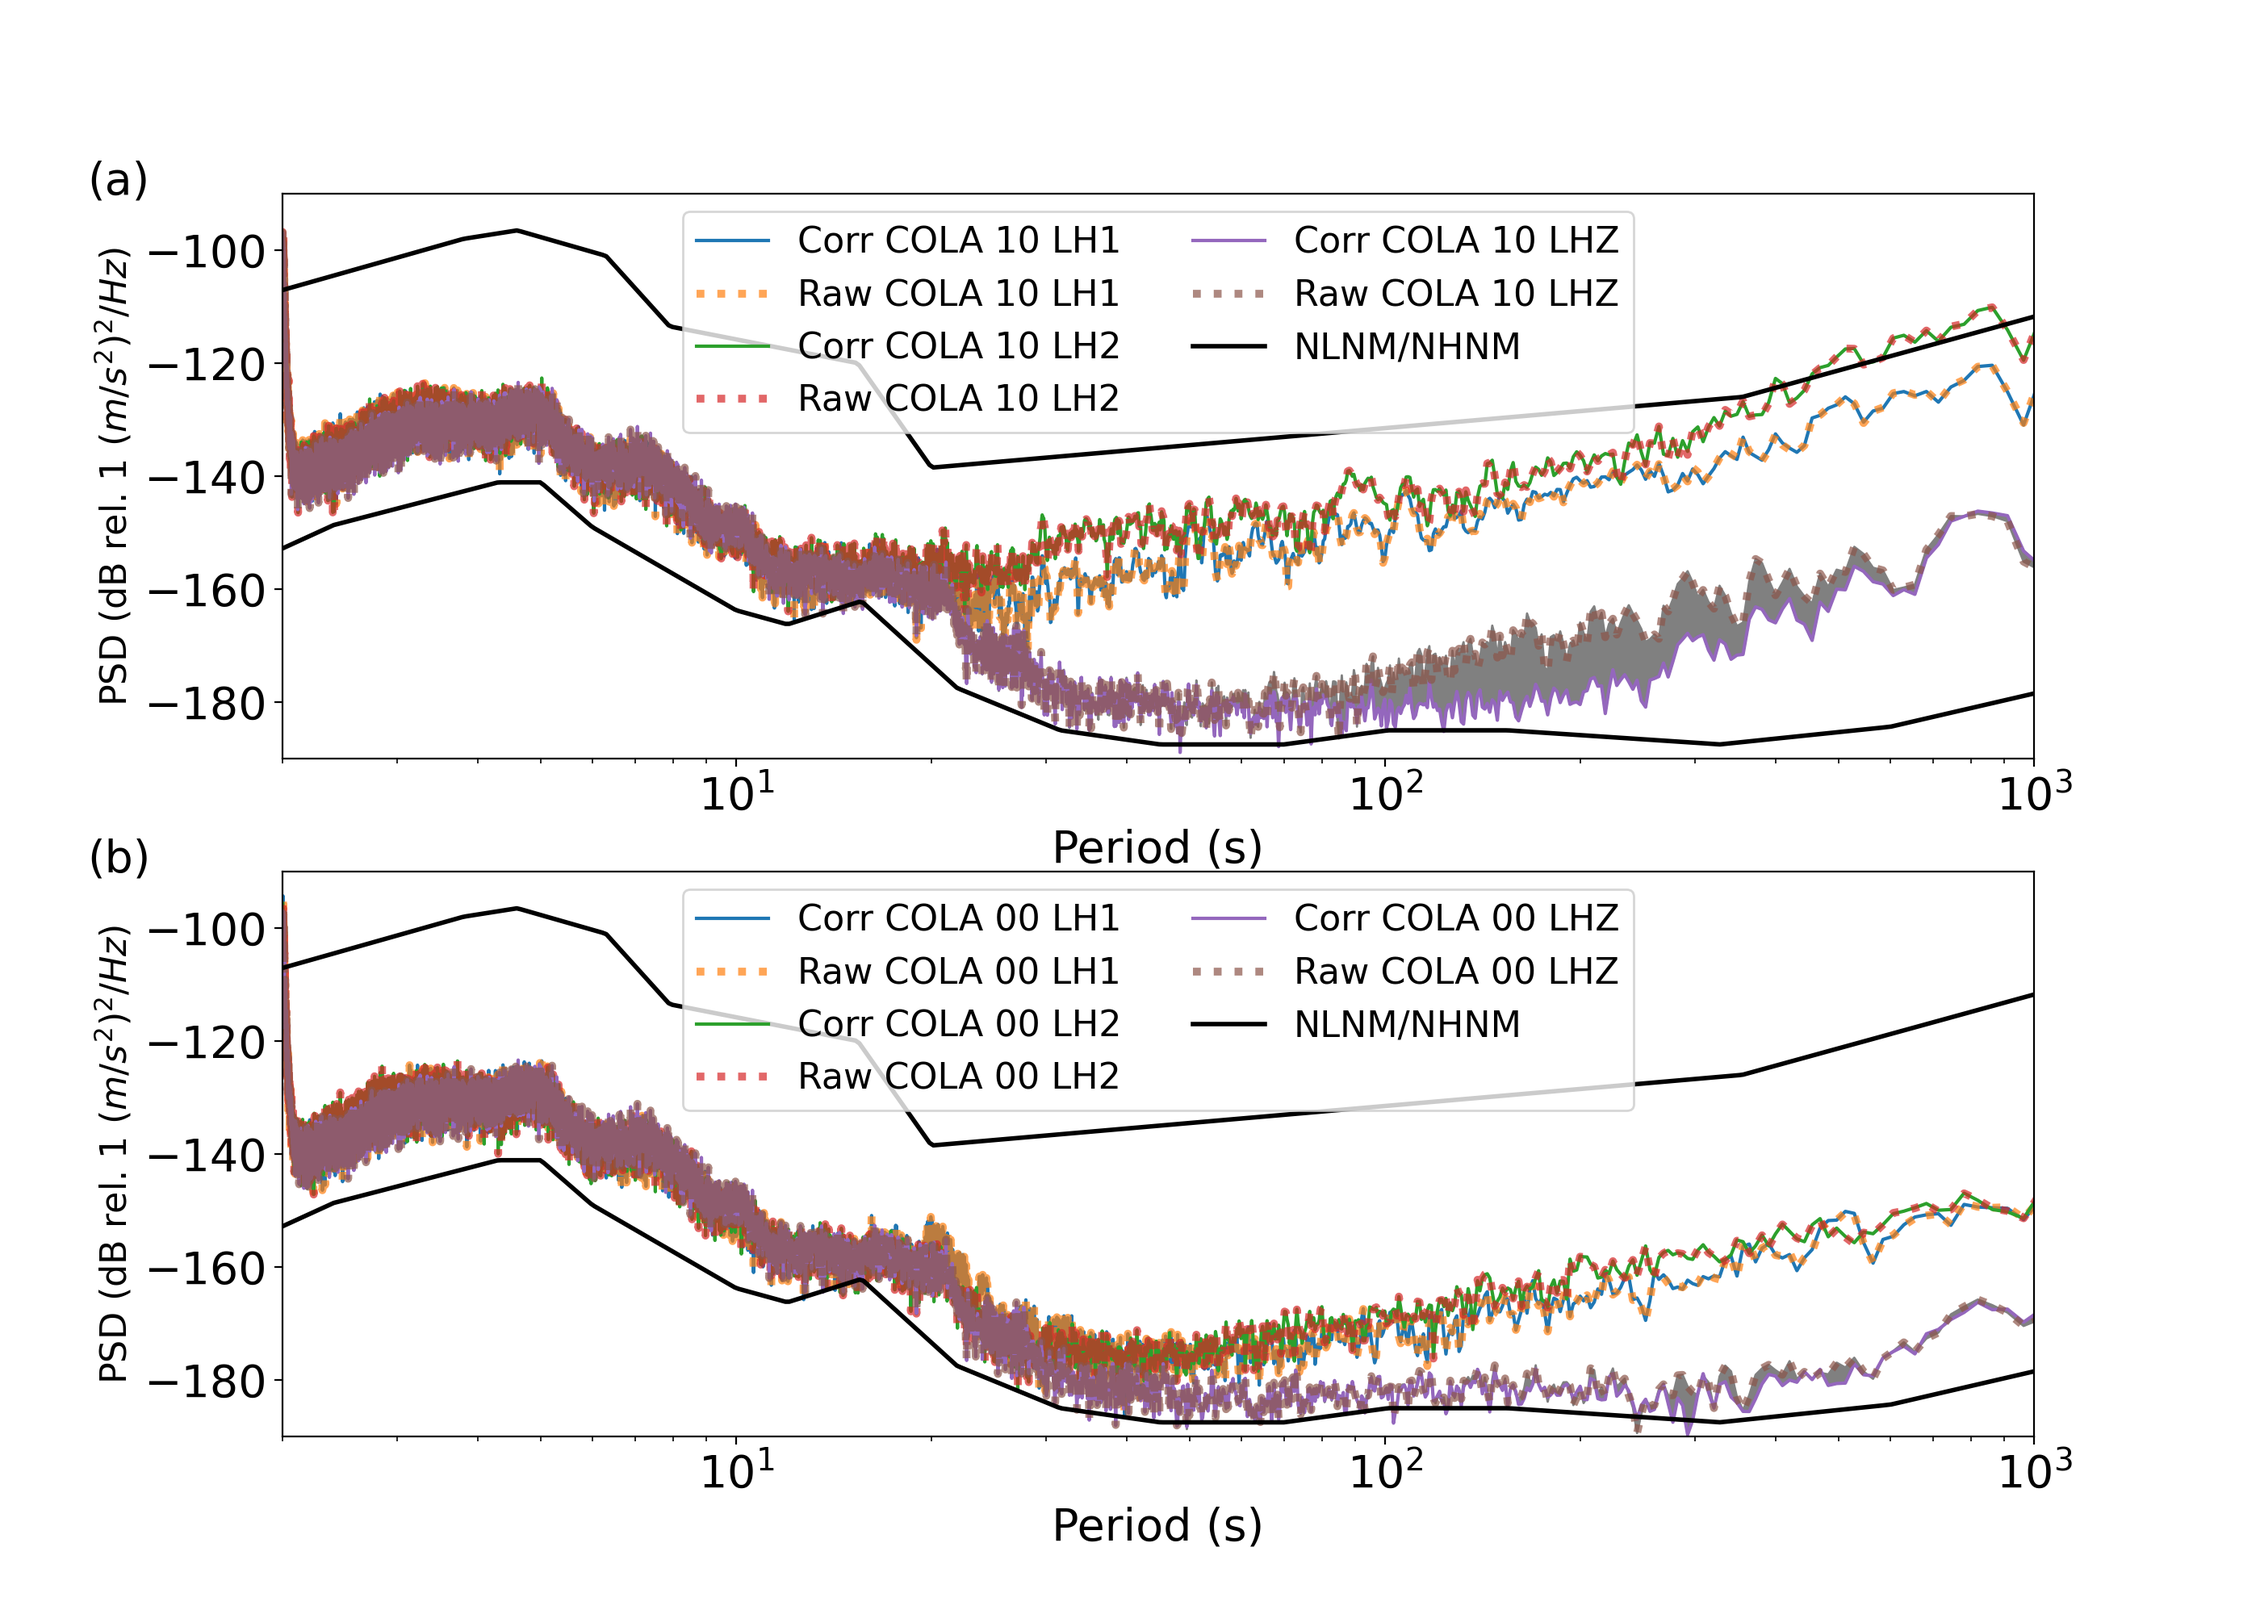
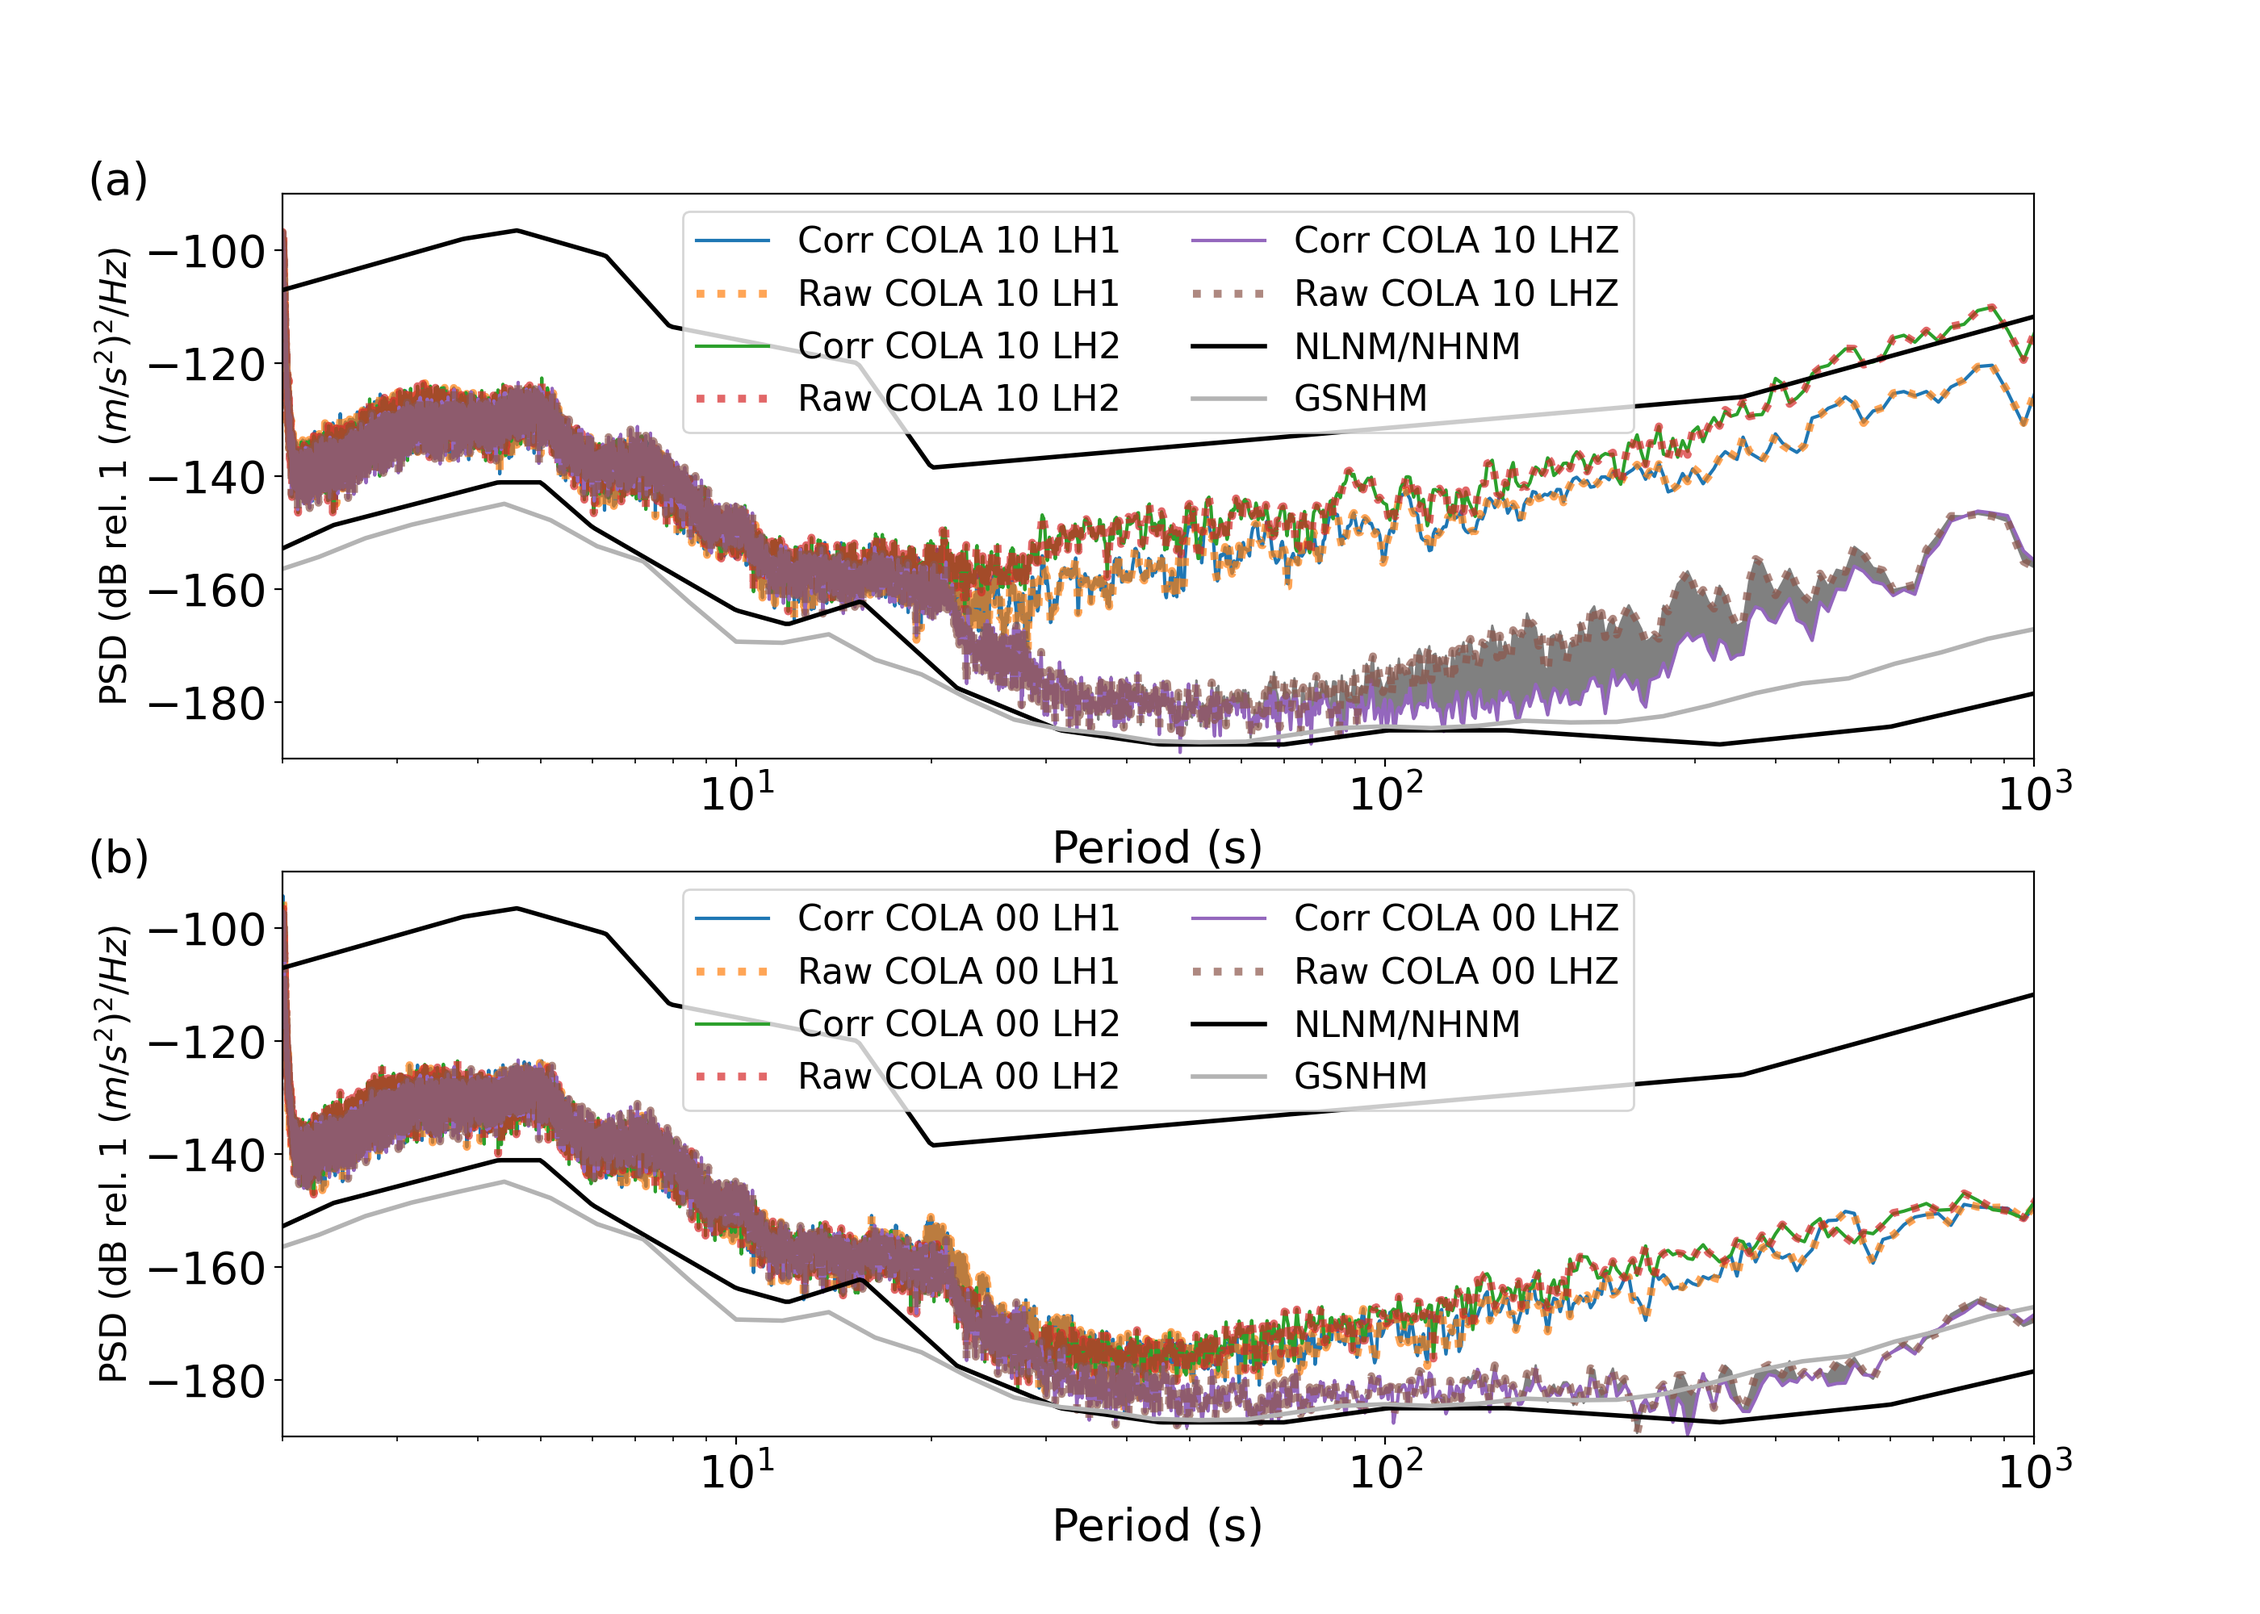
Added the Berger horizontal model.

diff --git a/figure2.py b/figure2.py
@@ -141,8 +141,18 @@ for idx, loc in enumerate(locs):
         plt.semilogx(1./f,p, label='Raw ' + tr.stats.station + ' ' + tr.stats.location + ' ' + chan, alpha=0.7, linestyle='dotted', linewidth=3.5)
     per, nlnm = get_nlnm()
     per, nhnm = get_nhnm()
+    bper, bpow =[], []
+    fil = open('GSNHmodel.csv','r')
+    for line in fil:
+        line = line.strip()
+        line = line.replace(' ','')
+        line = line.split(',')
+        bper.append(float(line[0]))
+        bpow.append(float(line[1]))
+    fil.close()
     plt.semilogx(per, nlnm, color='k', linewidth=2)
     plt.semilogx(per, nhnm, color='k', linewidth=2, label='NLNM/NHNM')
+    plt.semilogx(bper, bpow, color='.7', linewidth=2, label='GSNHM')
     #plt.axvspan(1./pmin, 1./pmax, facecolor='g', alpha=0.1)
     plt.fill_between(1./f, p, pcor,color='.5')
     plt.xlabel('Period (s)')
